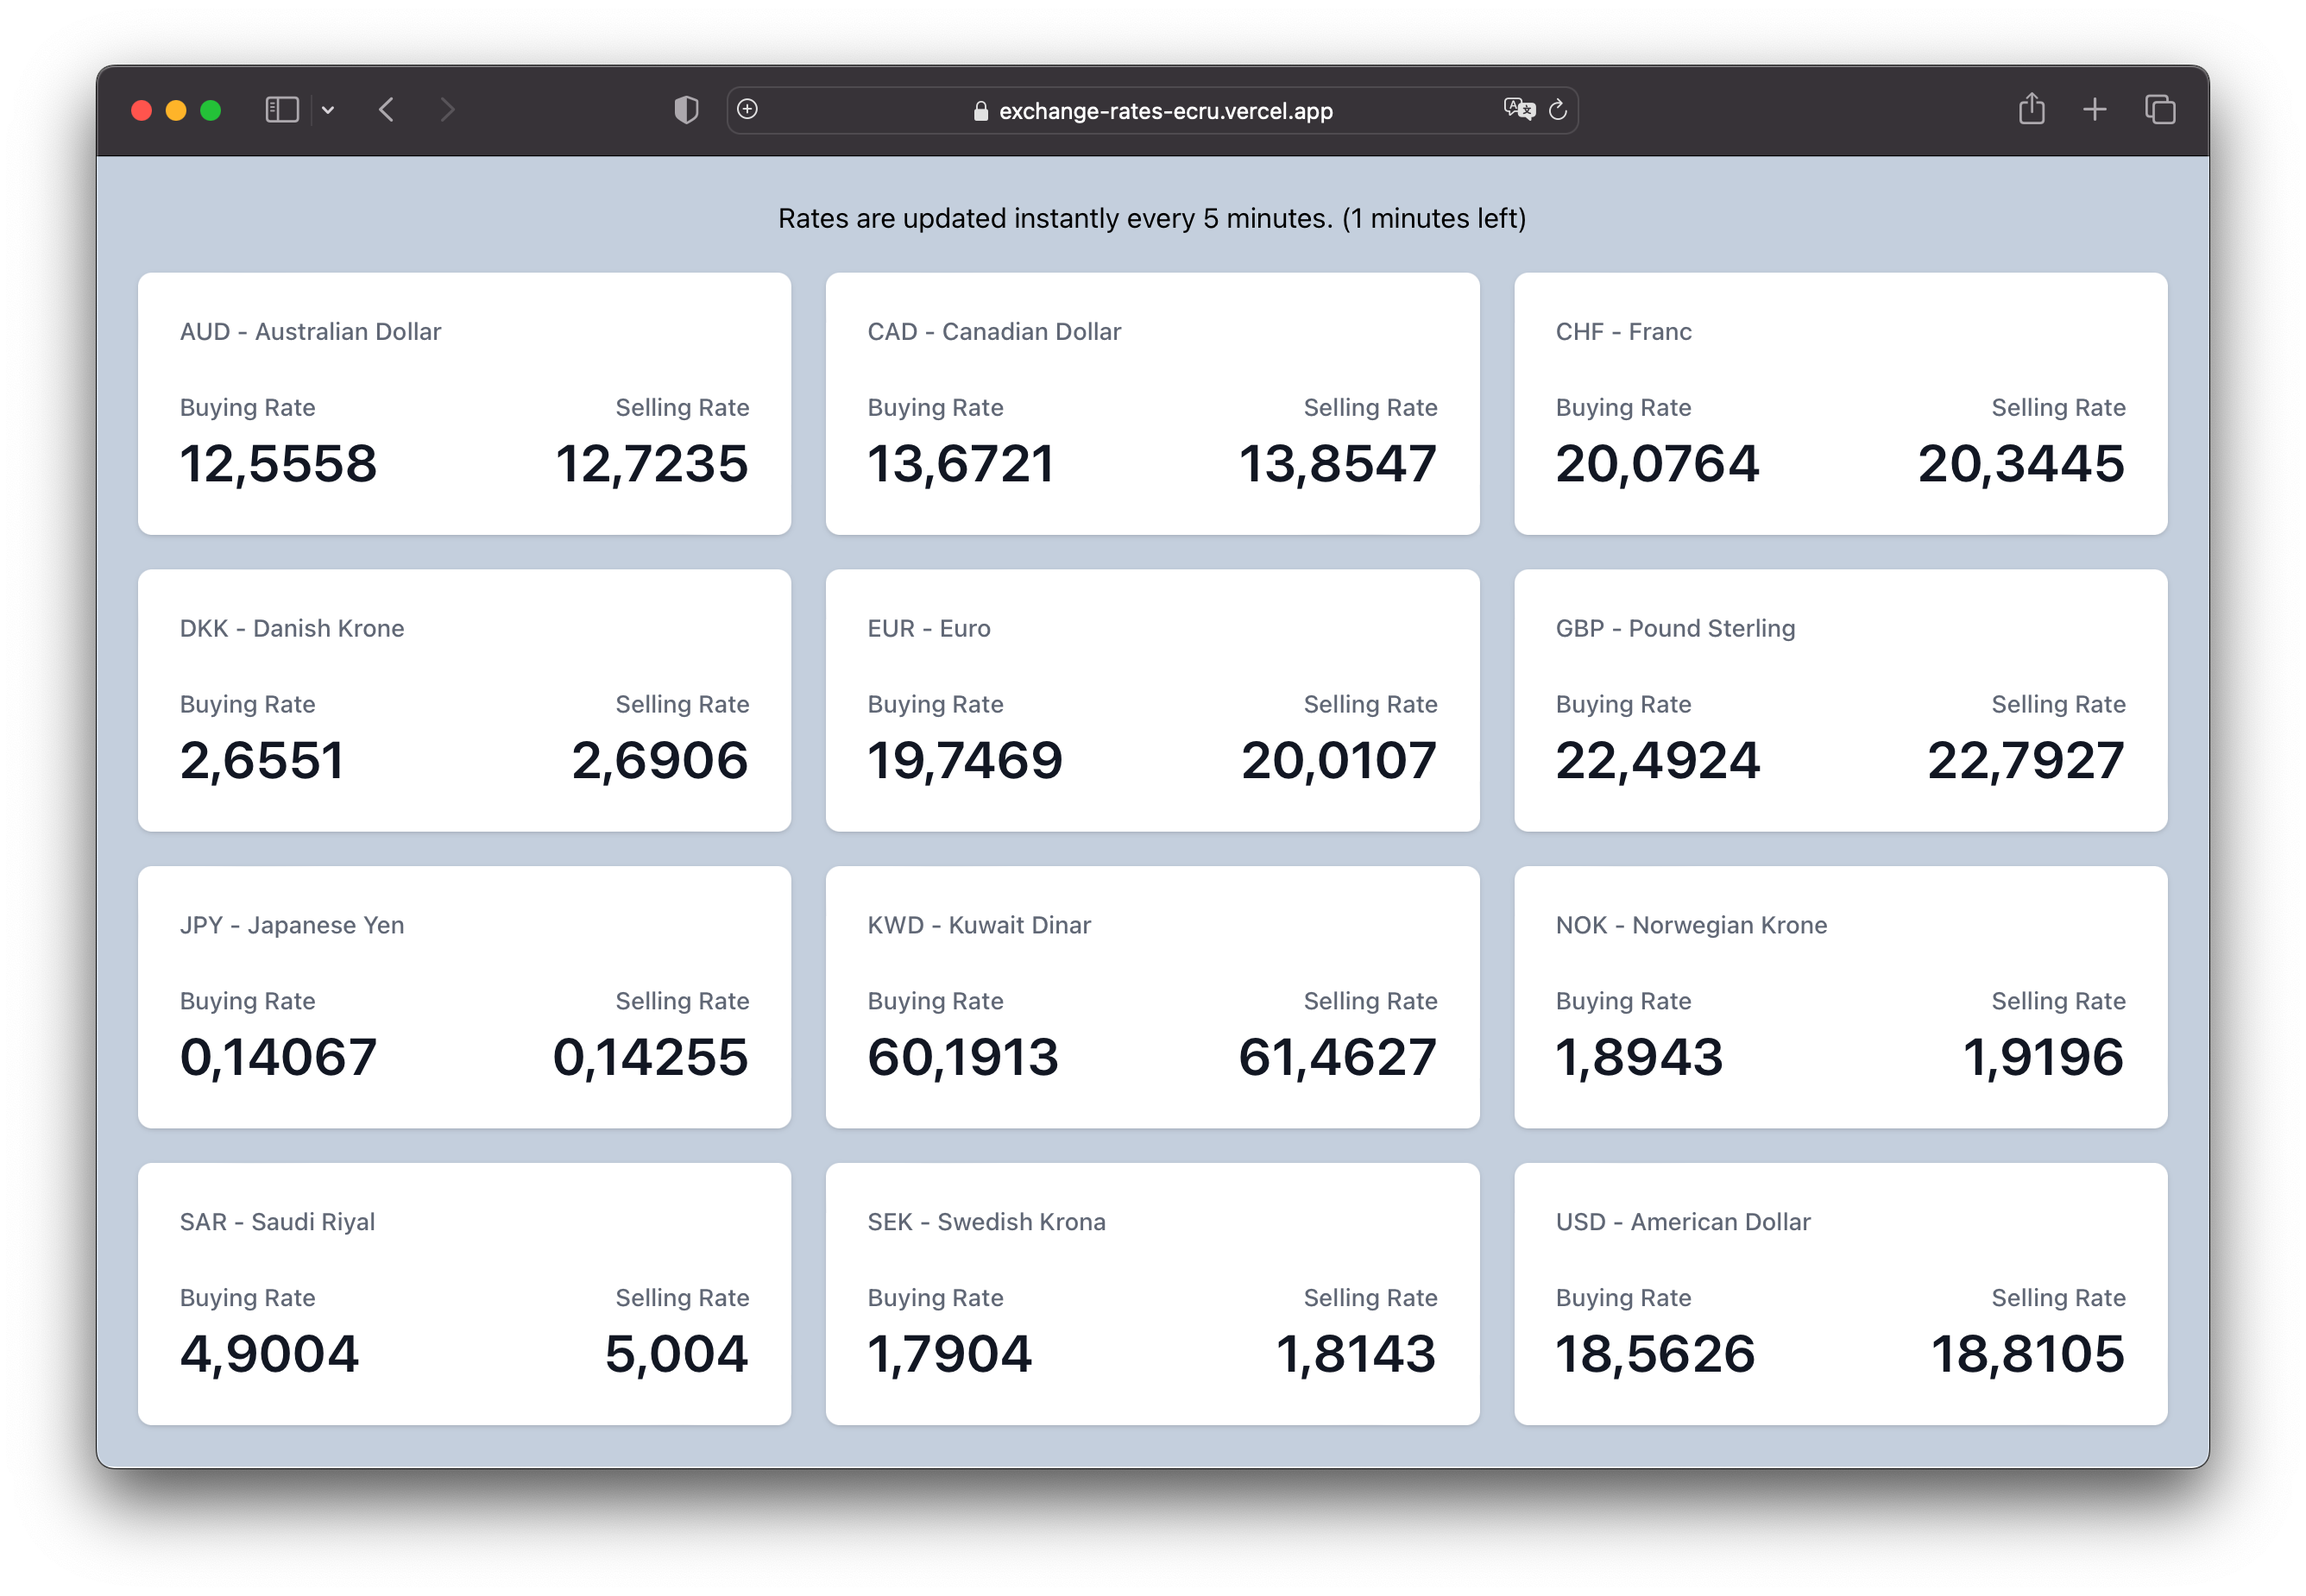
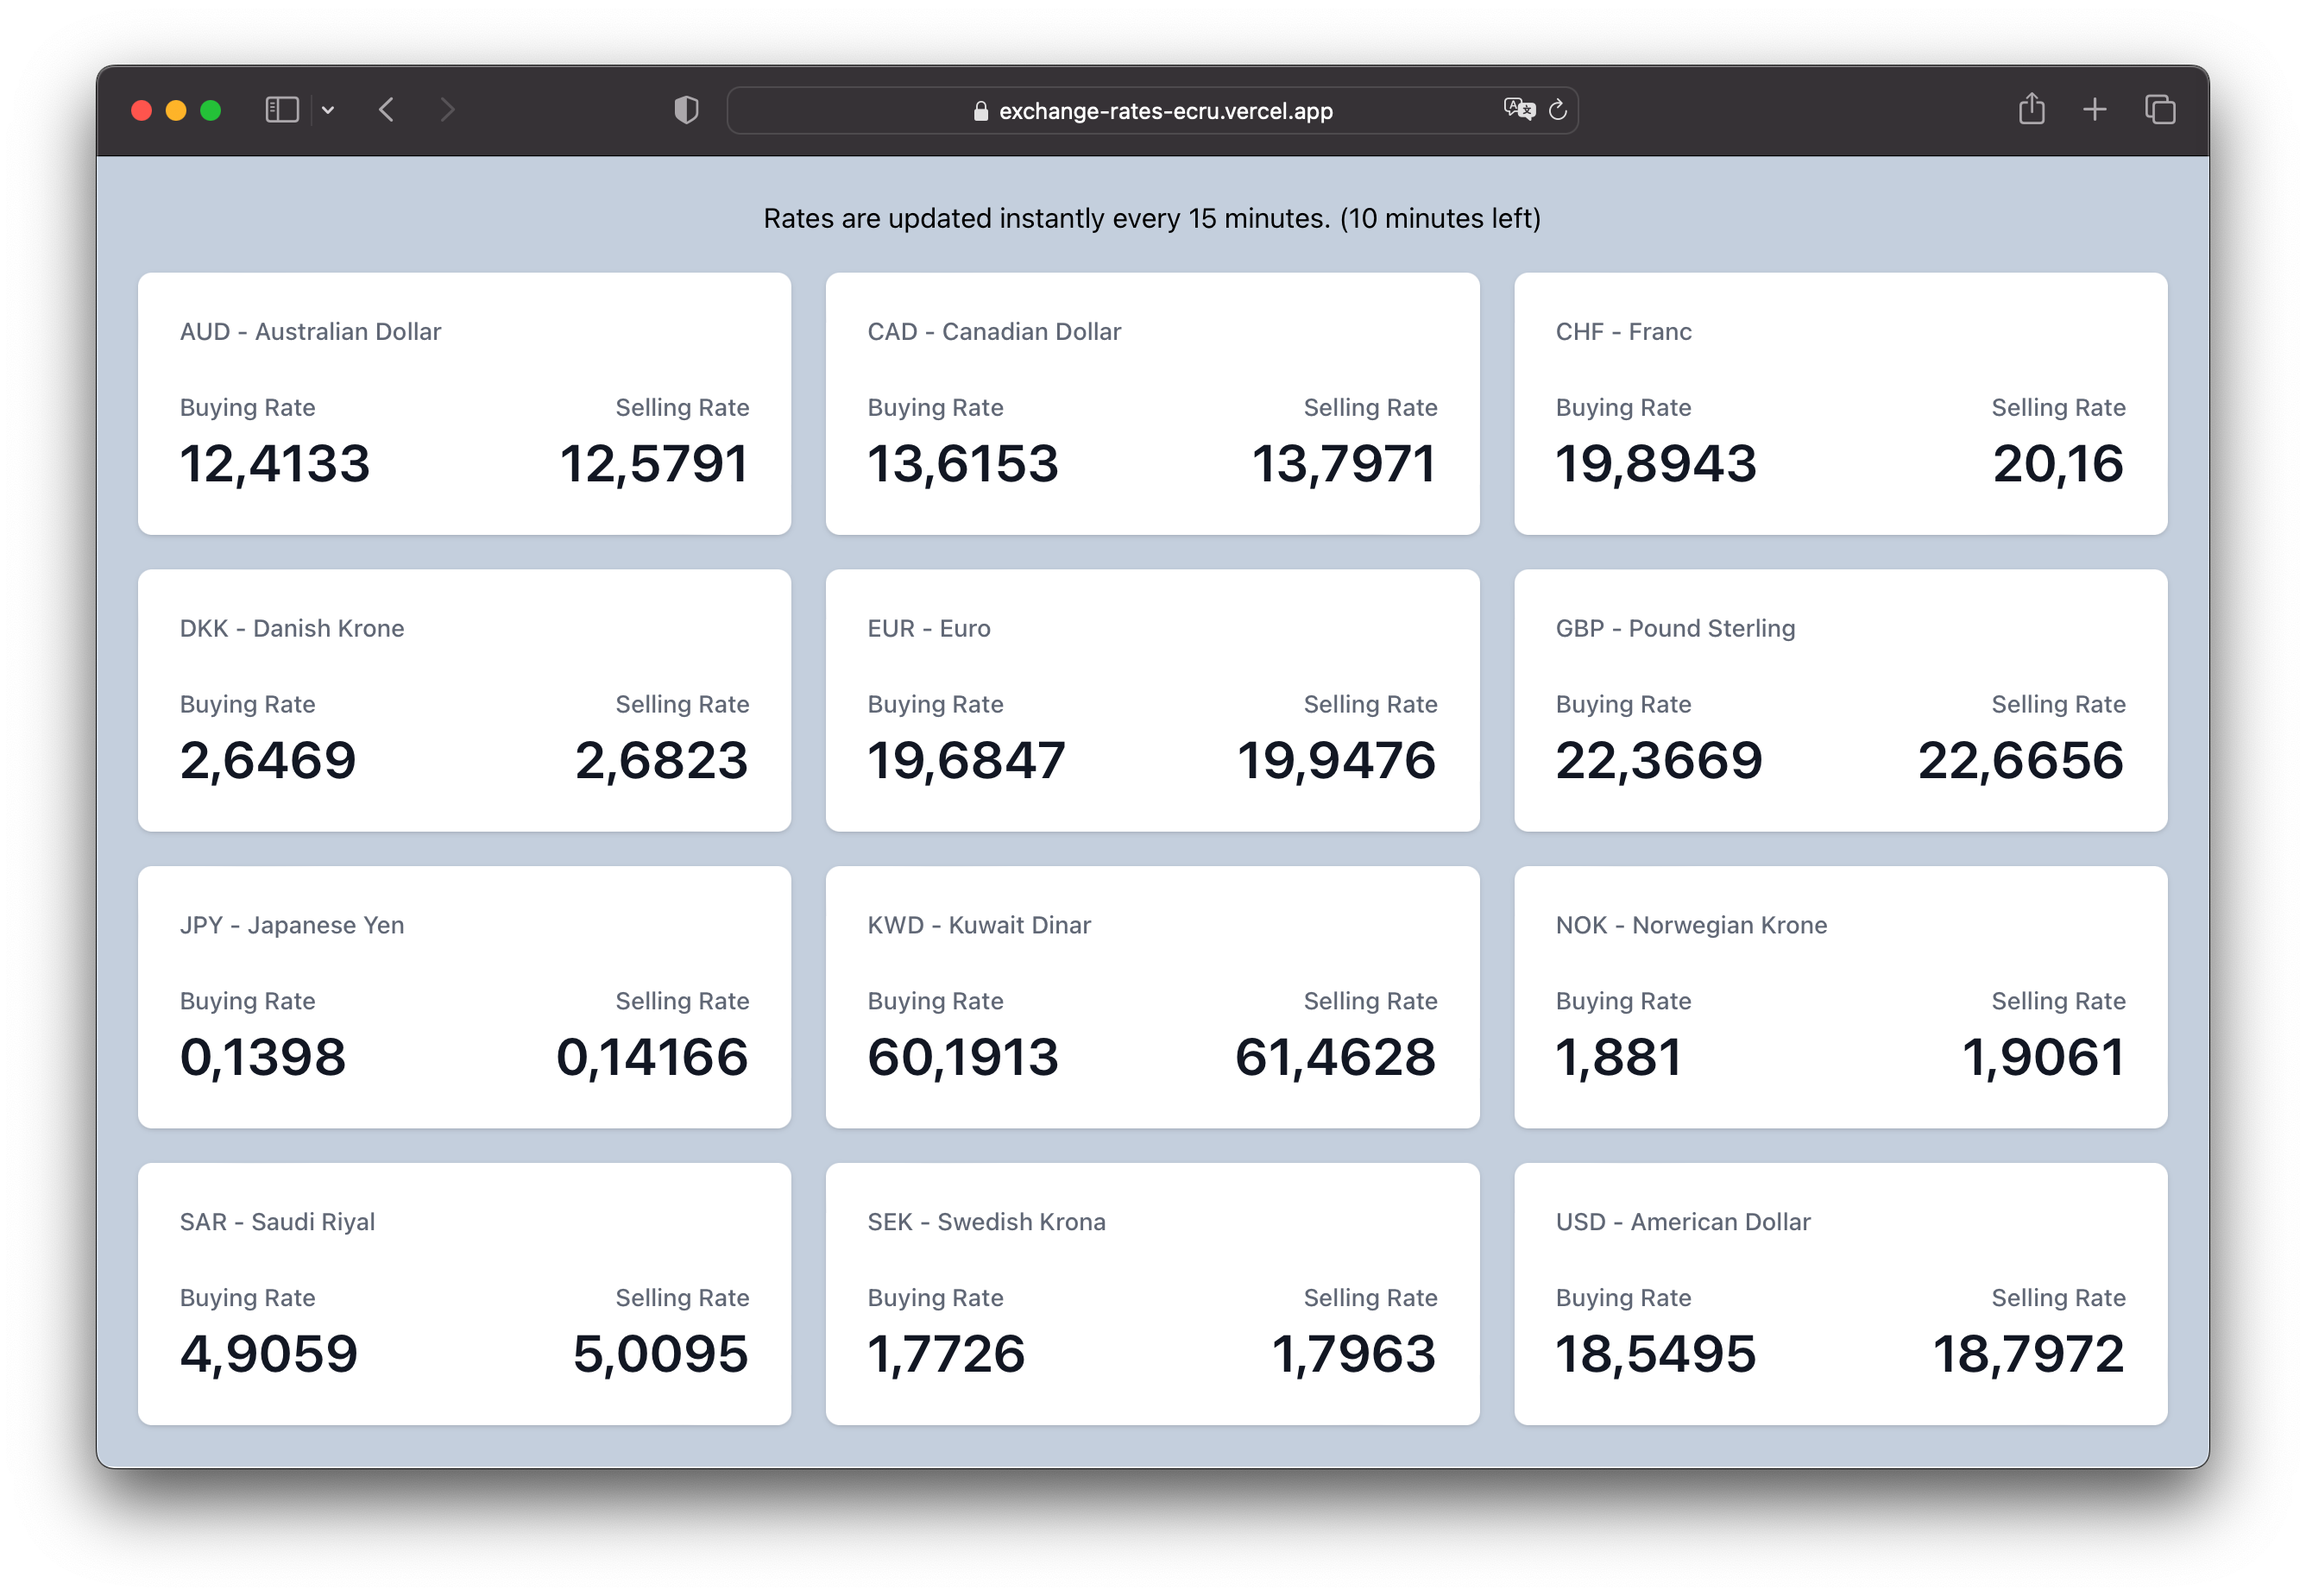
Update readme

diff --git a/README.md b/README.md
@@ -8,7 +8,7 @@ You can access the full source code on our example repository.
 
 Exchange Rates is an application that displays exchange rates instantly. 
 
-In this example, we will create a cloud function to pull the data and scrape the HTML page. We will create a cron job for the scrape process to run every 5 minutes and use the Realtime service to instantly reflect the captured data to the user after saving it to the database.
+In this example, we will create a cloud function to pull the data and scrape the HTML page. We will create a cron job for the scrape process to run every 15 minutes and use the Realtime service to instantly reflect the captured data to the user after saving it to the database.
 
 ## Creating an Altogic App
 First, let's create an altogic app.
@@ -48,7 +48,7 @@ We have unchecked the services we do not use as in the screenshot below.
 ![Client Keys](github/client-keys.png)
 
 ## Creating Model and Service
-We created our model as `exchange_rates` and added the necessary fields.
+We have created our model as `exchange_rates` and added the necessary fields.
 
 ![Models](github/models.png)
 
@@ -56,13 +56,15 @@ Let's create our endpoint as in the screenshot below. We did not check the sessi
 
 ![Create Endpoint](github/create-endpoint.png)
 
-We get our model in Body. After cleaning the database first, we add the array that comes in the body.
+We have gotten our exchange_rates model in Body. After cleaning the database, we first add the array in the body.
+
+>  The `Synchronize Flow` node waits for execution flow until the execution completion of selected nodes. 
 
 ![Update Service](github/update-service.png)
 
 ## Creating Cloud Function and Cron Job
 
-Let's create our cloud function to scrape our data. We need to download Altogic CLI.
+Let's create our cloud function to scrape our data. We need to download Altogic CLI. 
 
 ```bash 
 $ npm install -g altogic-cli 
@@ -221,7 +223,15 @@ module.exports = async function (req, res) {
 };
 ```
 
-After scraping the website and normalizing the data, we save the data to the database with the help of the endpoint we created earlier. We also sent the data to the rates channel in realtime so that the data is instantly reflected to the user.
+After scraping the website and normalizing the data, we saved the data to the database with the help of the endpoint we created earlier. We also sent the data to the rates channel in real-time so that the user instantly reflected the data.
+
+Now, we can deploy our function and connect with the task.
+
+```bash
+$ altogic deploy
+```
+
+![Task](github/task.png)
 
 ## Create a React project
 
@@ -260,7 +270,7 @@ export default altogic;
 > `signInRedirect` is the sign in page URL to redirect the user when user's session becomes invalid. Altogic client library observes the responses of the requests made to your app backend. If it detects a response with an error code of missing or invalid session token, it can redirect the users to this signin url.
 
 ## Stats Component
-Let's create Stats component to show exchange rate information. When the page was loaded, we made a GET request to pull the data from the database. We also subscribed to the rates channel that we created in the cloud function for instantaneous reflection of the data. 
+Let's create `Stats` component to show exchange rate information. When the page was loaded, we made a GET request to pull the data from the database. We also subscribed to the rates channel that we created in the cloud function for instantaneous reflection of the data. 
 
 Replacing `component/stats.js` with the following code:
 
